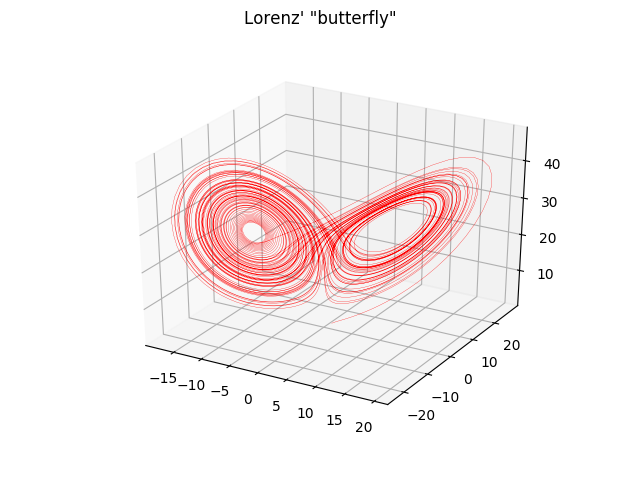
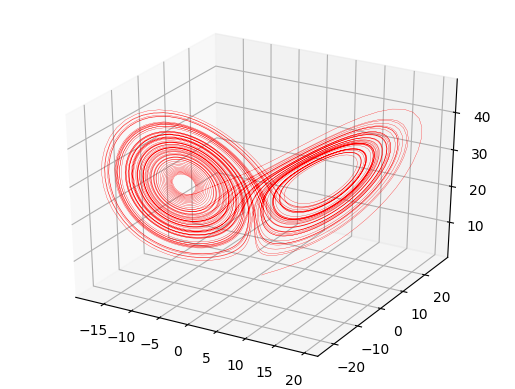
Removing figure title

diff --git a/lorenz.py b/lorenz.py
@@ -51,11 +51,10 @@ for i in range(1,N):
 # Plot static figure and rotate plot for visualization
 fig = plt.figure()
 ax = fig.add_subplot(111, projection='3d')
-fig.suptitle("Lorenz' \"butterfly\"")
 ax.plot(y[0, :], y[1, :], y[2, :], color="red", linewidth=0.2)
 
 # Save figure
-# plt.savefig("lorenz.png")
+plt.savefig("lorenz.png", bbox_inches="tight")
 
 # Static plot
 plt.show()
